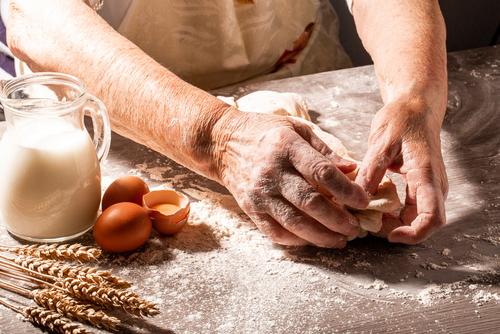
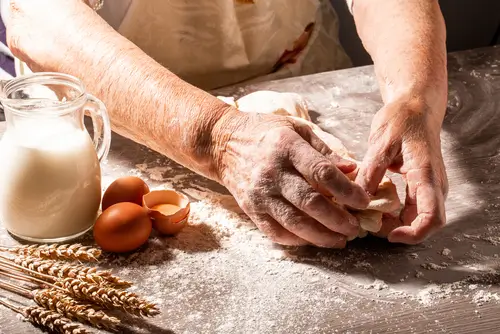
Upload smaller size images to better the performances

diff --git a/schedule.html b/schedule.html
@@ -24,7 +24,7 @@
     </header>
   <div id="photos">
       <img src="assets/images/violin.webp" alt="a blond violinist playing her instrument">
-      <img src="assets/images/truffle.webp" alt="view of black truffles and a glass of white wine">
+      <img src="assets/images/truffles.webp" alt="view of black truffles and a glass of white wine">
       <img src="assets/images/jugglers.webp" alt="three colourfull jugglers smiling">
       <img src="assets/images/porcini-mushroom.webp" alt="a bunch of porcini mushrooms by a tree ready to be picked">
       <img src="assets/images/baking.webp" alt="old woman hands kneading dough">
